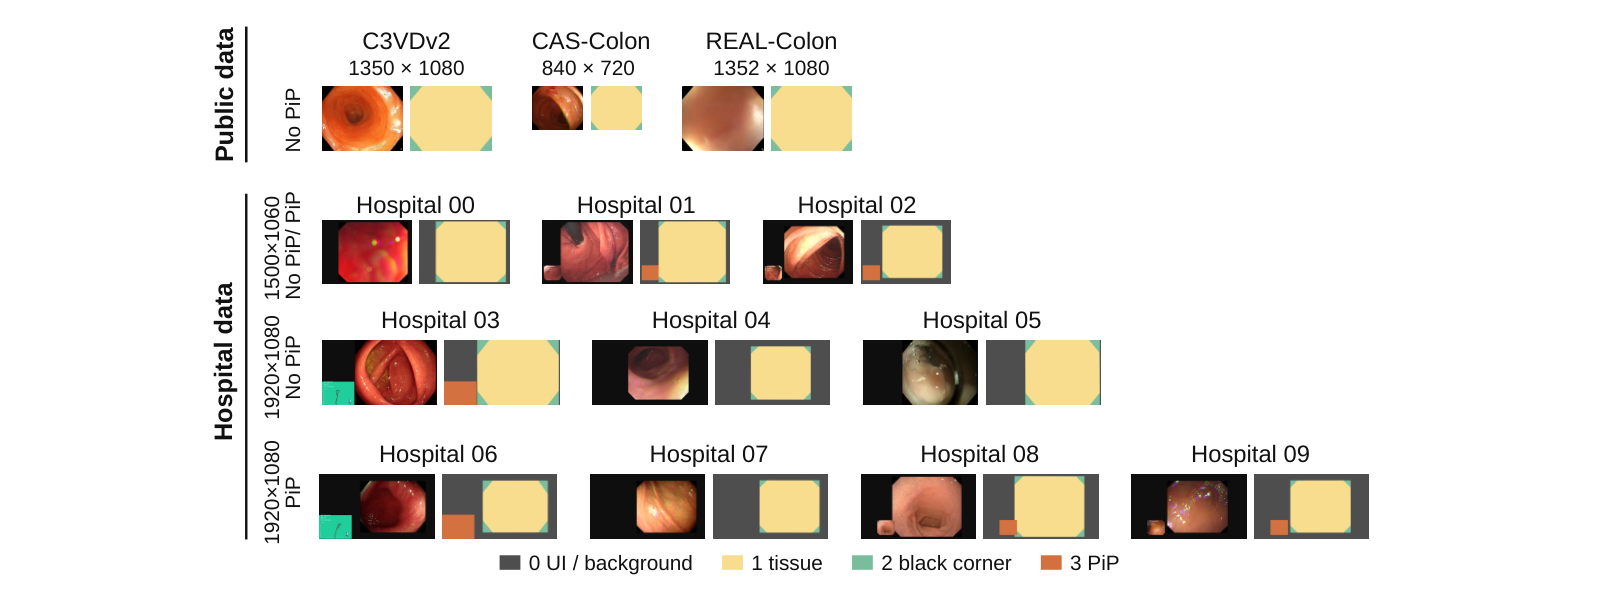
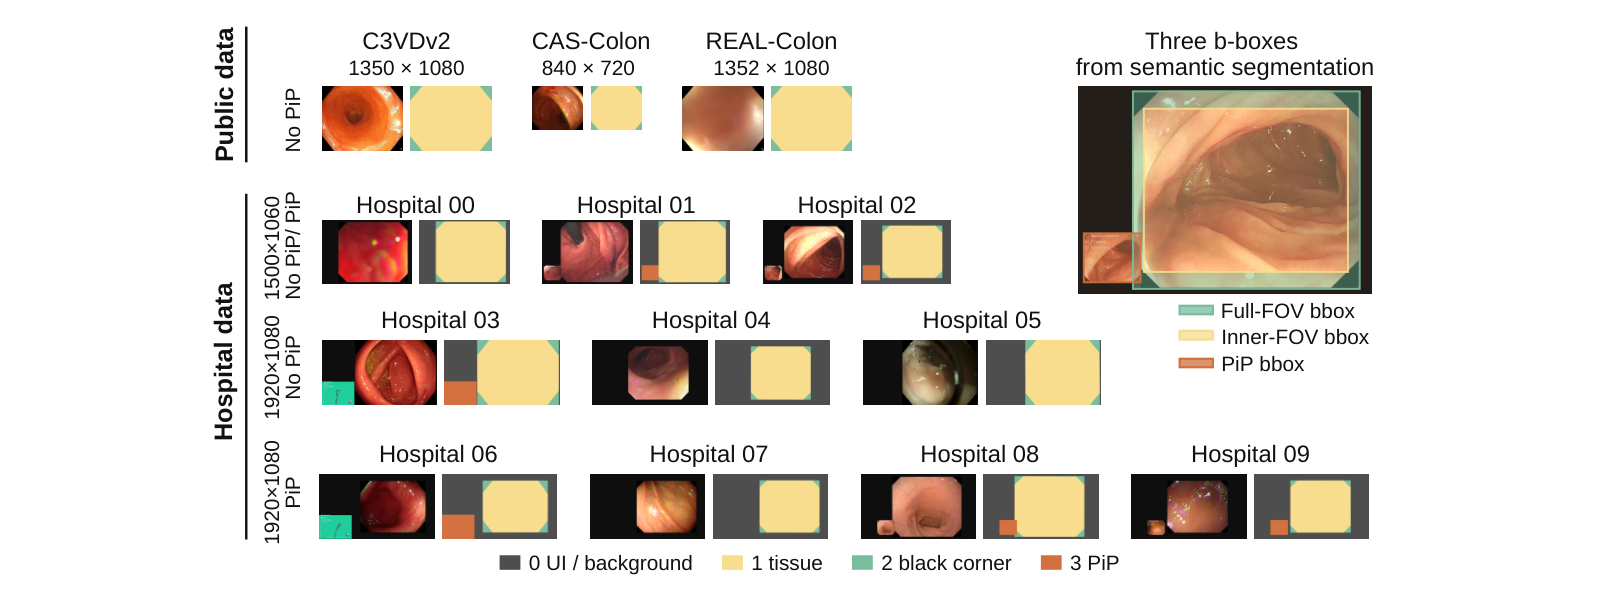
docs: use the repository's own label-pair figure and rewrite the Korean README
assets/sup_fig3_label_pairs.png was rendered from the manuscript's supplementary
figure. The repository should carry the git_ variant instead: it includes the
"Three b-boxes from semantic segmentation" panel and the Full-FOV / Inner-FOV /
PiP legend, which is the thing a reader of this repository needs to see. The
English class table and figure caption now match its wording.

The Korean README read as a translation of the English one rather than as Korean.
Rewritten so the sentences carry their own weight - shorter subject-to-verb
distance, fewer stacked modifiers, and the reasoning attached where it belongs
instead of trailing every paragraph.

Changed region(s): [[0.6562, 0.0602, 0.875, 0.6321]]

diff --git a/README.ko.md b/README.ko.md
@@ -2,20 +2,20 @@
 
 [English](README.md)
 
-대장내시경 프레임에서 실제 내시경 영상인 부분만 잘라내고, picture-in-picture 창이 떠
-있으면 그 위치를 찾아줍니다.
+대장내시경 프레임에서 실제 영상 영역만 잘라내고, picture-in-picture 창이 뜨면 그 위치를
+찾아냅니다.
 
 ![ColFOV workflow](assets/fig1_workflow.png)
 
-내시경 프레임에는 조직이 아닌 것들이 함께 담깁니다. 프로세서 UI 테두리, 광학계가 닿지
-않는 검은 모서리, letterbox 패딩, 그리고 두 번째 화면을 띄우는 picture-in-picture 창까지
-있습니다. ColFOV는 프레임을 이 네 클래스로 분할한 뒤, 잘라 쓸 수 있는 사각형 3개로
-바꿔줍니다. 사용 가능한 시야 전체를 감싸는 Full-FOV bbox, 안정적인 조직 안쪽에 1.25 비율로
-들어가는 Inner-FOV bbox, 그리고 하위 창을 위한 PiP bbox입니다. 앞의 둘은 영상마다 한 번
-계산해 그대로 재사용하고, PiP bbox는 창이 움직이기 때문에 시간에 따라 추적합니다.
+내시경 화면에는 조직 말고도 많은 게 담깁니다. 프로세서 UI 테두리가 감싸고 있고, 광학계가
+닿지 않는 모서리는 까맣고, letterbox 여백이 붙기도 하고, 두 번째 화면을 보여주는
+picture-in-picture 창이 뜨기도 합니다. ColFOV는 이걸 네 클래스로 나눈 다음 잘라 쓸 사각형
+셋을 뽑아냅니다. 쓸 수 있는 시야 전체를 감싸는 Full-FOV bbox, 그 안에서 조직만 골라 1.25
+비율로 채운 Inner-FOV bbox, 그리고 하위 창을 잡는 PiP bbox입니다. 앞의 둘은 영상당 한 번만
+구하면 끝이지만, PiP 창은 시술 도중에 옮겨 다니므로 계속 추적합니다.
 
-코드와 model weights는 과학적 투명성을 위해 공개합니다. 라이선스 조건은 아직 정하지
-않았으며 원고 투고 시점에 맞춰 추가할 예정입니다.
+코드와 model weights를 공개해 둔 건 연구 투명성 때문입니다. 라이선스는 아직 정하지 않았고,
+원고 투고할 때 함께 정리할 예정입니다.
 
 ## 설치
 
@@ -27,17 +27,17 @@ source .venv/bin/activate          # Windows: .venv\Scripts\Activate.ps1
 pip install -e ".[test]"
 ```
 
-## 사용
+## 써보기
 
-저장소에는 이미지·영상 데이터가 들어 있지 않으니 본인 파일 경로를 넘기면 됩니다.
+이미지나 영상은 저장소에 없습니다. 갖고 계신 파일 경로를 넘기세요.
 
 ```bash
 python examples/infer_session.py --video /path/to/video.mp4 --out outputs/session
 ```
 
-사각형 3개가 담긴 `session_result.json`, `calibration_summary.json`, 그리고 관측 시점마다
-한 행씩 쌓이는 `monitor_records.jsonl`이 나옵니다. 박스는 정수 `(x1, y1, x2, y2)`이고
-`x2`/`y2`는 exclusive, 원본 프레임 해상도 기준이라 그대로 슬라이싱됩니다.
+사각형 셋이 담긴 `session_result.json`, `calibration_summary.json`, 그리고 관측 시점마다 한
+줄씩 쌓이는 `monitor_records.jsonl`이 나옵니다. 좌표는 정수 `(x1, y1, x2, y2)`, `x2`와
+`y2`는 exclusive, 기준은 원본 해상도라서 바로 슬라이싱하면 됩니다.
 
 ```python
 import cv2, json
@@ -49,31 +49,33 @@ box = result["inner_fov_box"]
 crop = frame[box[1]:box[3], box[0]:box[2]] if box else frame
 ```
 
-프레임 1장으로도 돌아가지만 마스크와 프레임 단위 PiP 후보까지만 나옵니다. FOV 박스는
-calibration 표본이, PiP 박스는 타임라인이 있어야 하기 때문입니다.
+프레임 한 장만 넣어도 되는데, 그때는 마스크와 프레임 단위 PiP 후보까지만 나옵니다. FOV 박스는
+calibration 표본이 있어야 하고 PiP 박스는 타임라인이 있어야 하니까요.
 
 ```bash
 python examples/infer_image.py --image /path/to/frame.png --out outputs/image
 ```
 
-PyTorch가 CUDA 빌드라면 두 명령 모두에 `--device cuda`를 붙일 수 있습니다. 기본
-`pip install torch`는 CUDA 빌드가 아닌 경우가 많은데, 그럴 때 예제가 assertion으로 죽지
-않고 안내 메시지를 냅니다.
+PyTorch가 CUDA 빌드면 두 명령 다 `--device cuda`를 붙일 수 있습니다. 그냥
+`pip install torch`로 깔면 CPU 빌드인 경우가 많은데, 그때는 assertion으로 죽지 않고 왜 안
+되는지 알려줍니다.
 
-## 박스가 `null`로 나올 때
+## 박스가 `null`로 나오면
 
-셋 중 무엇이든 `null`이 될 수 있고, 이건 실패가 아니라 의도된 답입니다. 그 사각형을
-뒷받침할 근거가 없었다는 뜻이며 — 쓸 만한 calibration 프레임이 모자랐거나, PiP 창이 lock할
-만큼 안정적인 근거를 보여주지 못했거나 — 어떤 조건이 충족되지 않았는지는 함께 나오는 사유
-코드가 알려줍니다. 이때 임의의 fallback 사각형으로 대체하는 것만은 하지 마세요. 잘못된
-crop은 오류 하나 내지 않으면서 그 뒤의 모든 것을 망가뜨립니다.
+셋 다 `null`이 될 수 있습니다. 고장이 아니라 "근거가 없어서 답하지 않겠다"는 뜻입니다.
+쓸 만한 calibration 프레임이 모자랐거나, PiP 창이 lock할 만큼 안정적으로 잡히지 않은
+경우인데, 어느 조건이 걸렸는지는 옆에 붙는 사유 코드로 알 수 있습니다.
 
-## PiP 박스 읽는 법
+이때 적당한 사각형을 대신 넣는 것만은 피하세요. 잘못된 crop은 에러 한 번 안 내고 그 뒤
+단계를 전부 망칩니다.
 
-FOV 박스 두 개는 영상 전체에 그대로 유효하므로 `session_result.json`에서 한 번 읽고 잊어도
-됩니다. PiP 박스는 다릅니다. 시술 중간에 창이 옮겨지면 그 영상 전체에 맞는 사각형은 아예
-존재하지 않기 때문에, 요약의 `final_active_session_pip_box`는 마지막 상태일 뿐이고 이걸
-이전 시각에 적용하면 이동 전 구간이 전부 틀립니다. 시점별로 읽으세요.
+## PiP 박스는 시점별로 읽으세요
+
+FOV 박스 둘은 영상 내내 그대로라 `session_result.json`에서 한 번 읽으면 됩니다.
+
+PiP는 다릅니다. 창이 중간에 옮겨지면 영상 전체에 맞는 사각형이라는 게 없습니다. 요약에 있는
+`final_active_session_pip_box`는 말 그대로 마지막 상태라, 이걸 앞부분에 적용하면 이동 전
+구간이 통째로 틀립니다.
 
 ```python
 live = {}
@@ -82,14 +84,14 @@ for line in open("outputs/session/monitor_records.jsonl"):
     live[r["frame_index"]] = r["active_session_pip_box"]   # 박스 또는 None
 ```
 
-각 행에는 `timestamp_sec`, `pip_state`, `pip_epoch`, `pip_reason`과 함께 `lock` ·
-`unlock` · `relock` · `null` 중 하나인 `pip_event`가 들어 있어서, 창이 언제 나타나고
+각 줄에 `timestamp_sec`, `pip_state`, `pip_epoch`, `pip_reason`이 함께 들어 있고,
+`pip_event`가 `lock` · `unlock` · `relock` · `null` 중 하나로 찍힙니다. 창이 언제 나타나고
 움직이고 사라졌는지 그대로 따라갈 수 있습니다.
 
 <details>
 <summary><b>출력 스키마</b></summary>
 
-`session_result.json` — 값은 placeholder이고 키와 형태만 보여줍니다.
+`session_result.json`입니다. 값은 자리표시자고 키와 형태만 보시면 됩니다.
 
 ```json
 {
@@ -113,74 +115,77 @@ for line in open("outputs/session/monitor_records.jsonl"):
 }
 ```
 
-나올 수 있는 사유 코드:
+사유 코드는 이렇습니다.
 
 ```
 ok                             박스가 살아 있음
-pip_session_box_unavailable    lock된 적이 없거나, unlock 후 아직 재잠금 전
-pip_ttl_expired                이전에 lock했으나 이후 새 근거가 없음
-insufficient_temporal_evidence routed 프레임 또는 time bin 부족
-insufficient_split_evidence    stability 검사를 돌릴 bin이 부족
-session_box_failed_stability   split 양쪽이 불일치
-no_reliable_popup_footprint    popup은 보이나 쓸 만한 박스가 없음
-model_has_no_class3_channel    3-class 모델: popup이 없는 게 아니라 못 봄
+pip_session_box_unavailable    lock한 적 없거나, unlock 후 아직 재잠금 전
+pip_ttl_expired                전에 lock했지만 그 뒤로 새 근거가 없음
+insufficient_temporal_evidence routed 프레임이나 time bin이 모자람
+insufficient_split_evidence    stability 검사를 돌릴 bin이 모자람
+session_box_failed_stability   split 양쪽이 어긋남
+no_reliable_popup_footprint    popup은 보이는데 쓸 만한 박스가 안 나옴
+model_has_no_class3_channel    3-class 모델이라 popup을 못 봄 (없는 게 아님)
 ```
 
-`calibration_summary.json`은 24개 calibration 프레임 중 몇 개가 쓸 만했는지와 FOV geometry가
-abstain한 경우 그 사유를 담습니다. `monitor_records.jsonl`이 PiP 출력의 정본입니다.
+`calibration_summary.json`에는 24장 중 몇 장이 쓸 만했는지, abstain했다면 왜 그랬는지가
+들어갑니다. PiP 출력의 정본은 `monitor_records.jsonl`입니다.
 
 </details>
 
 <details>
-<summary><b>네 클래스, 그리고 신경망이 실제로 내놓는 것</b></summary>
+<summary><b>네 클래스와 세 박스</b></summary>
 
-신경망이 만드는 것은 픽셀별 클래스 맵 하나뿐이고, 이 저장소의 모든 bounding box는 그
-마스크에서 나중에 계산한 geometry입니다.
+신경망이 내놓는 건 픽셀별 클래스 맵 하나뿐입니다. 이 저장소의 bounding box는 전부 그
+마스크에서 나중에 계산한 값입니다.
 
 ```
 mask[y, x] ∈ {0, 1, 2, 3}
 ```
 
-| 값 | 클래스 | figure 표기 | 의미 |
+| 값 | 클래스 | figure 표기 | 무엇인가 |
 |---:|---|---|---|
-| 0 | `background_ui` | UI / background | 프로세서 UI, letterbox, 광학 시야 바깥 전부 |
-| 1 | `valid_fov_tissue` | Tissue | 사용 가능한 내시경 조직 |
-| 2 | `black_corner` | Corner | 프레임 안쪽의 어두운 주변부 |
+| 0 | `background_ui` | UI / background | 프로세서 UI, letterbox, 광학 시야 바깥 |
+| 1 | `valid_fov_tissue` | tissue | 쓸 수 있는 내시경 조직 |
+| 2 | `black_corner` | black corner | 프레임 안쪽의 검은 주변부 |
 | 3 | `popup_overlay` | PiP | 덧씌워진 하위 창 |
 
-![Label examples](assets/sup_fig3_label_pairs.png)
+![Three b-boxes from semantic segmentation](assets/sup_fig3_label_pairs.png)
+
+공개 데이터와 병원 데이터 모두 해상도와 화면 구성이 제각각이지만, 같은 네 클래스에서 같은
+세 박스가 나옵니다.
 
 </details>
 
 <details>
-<summary><b>자동으로 맞춰지는 것 / 사용자가 정하는 것 / 고정된 것</b></summary>
+<summary><b>알아서 맞춰지는 것 / 정할 수 있는 것 / 못 바꾸는 것</b></summary>
 
-세 가지는 따로 지시하지 않아도 입력을 따라갑니다. 박스 좌표는 원본 프레임 해상도 그대로
-나오므로 rescale이 필요 없고, 모니터링 주기는 `min(source_fps, --monitor-hz)`라서 소스보다
-빠르게 샘플링되지 않습니다. 3 fps 영상은 무엇을 넘기든 3 Hz로 봅니다. popup 검출은 이
-checkpoint에 class-3 채널이 있어서 켜지며, 3-class 모델이었다면 "popup이 없다"가 아니라
-"popup을 볼 수 없다"로 보고됩니다.
+세 가지는 따로 안 건드려도 입력에 맞춰집니다. 박스 좌표는 원본 해상도 그대로 나오니 다시
+스케일할 일이 없고, 모니터링 주기는 `min(source_fps, --monitor-hz)`라 3 fps 영상은 뭘 넣든
+3 Hz로 봅니다. 소스보다 빠르게 볼 수는 없으니까요. popup 검출은 이 checkpoint에 class-3
+채널이 있어서 켜집니다. 3-class 모델이면 "popup 없음"이 아니라 "popup을 못 봄"으로
+보고합니다.
 
-네 가지는 사용자가 정합니다.
+정할 수 있는 건 네 개입니다.
 
 | 옵션 | 기본값 | 효과 |
 |---|---|---|
-| `--device` | `cpu` | `cuda`가 대략 5–10배 빠름 |
-| `--monitor-hz` | `5.0` | PiP 모니터가 보는 빈도. 낮출수록 빠르고 거칠어짐 |
+| `--device` | `cpu` | `cuda`가 5–10배쯤 빠름 |
+| `--monitor-hz` | `5.0` | PiP를 얼마나 자주 볼지. 낮추면 빠르고 거칠어짐 |
 | `--weights` | `weights/colfov_b8s3.pt` | |
-| `--out` | `outputs/...` | 출력 디렉터리 |
+| `--out` | `outputs/...` | 출력 폴더 |
 
-나머지는 전부 동결이며 일부러 명령행에 노출하지 않았습니다. calibration 24 프레임, admissible
-비율 0.50, inner box 비율 1.25, agreement threshold 0.4, stability gate(IoU 0.95 / 면적비
-0.97), drift threshold 0.50, 최소 routed 프레임 수와 time bin 수가 그렇습니다. 모델이 평가된
-값들이라, 바꾸면 보고된 어떤 동작과도 대응하지 않는 박스가 나옵니다.
+나머지는 전부 고정이고 일부러 명령행에 안 내놨습니다. calibration 24장, admissible 비율
+0.50, inner box 비율 1.25, agreement threshold 0.4, stability gate(IoU 0.95 / 면적비 0.97),
+drift threshold 0.50, 최소 routed 프레임과 time bin 수가 그렇습니다. 모델을 평가할 때 쓴
+값들이라, 바꾸면 논문에 적힌 어떤 동작과도 대응하지 않는 박스가 나옵니다.
 
 </details>
 
 <details>
 <summary><b>속도</b></summary>
 
-단일 프레임, 배칭 없음. RTX 5060 Ti + Intel CPU 실측입니다.
+프레임 한 장, 배칭 없이, RTX 5060 Ti와 Intel CPU에서 잰 값입니다.
 
 | | 1920×1080 | 1350×1080 | 1280×720 |
 |---|---:|---:|---:|
@@ -189,53 +194,52 @@ checkpoint에 class-3 채널이 있어서 켜지며, 3-class 모델이었다면 
 | mask만, CPU | 220 ms | 165 ms | 109 ms |
 | mask + popup + routing, CPU | 267 ms | 199 ms | 131 ms |
 
-신경망은 487,316 파라미터로 작은 편이라, mask 이후 비용의 대부분은 OpenCV로 CPU에서 도는
-popup 후처리와 routing gate가 차지합니다.
+신경망은 487,316 파라미터로 작습니다. mask 이후가 오래 걸리는 이유는 popup 후처리와 routing
+gate가 OpenCV로 CPU에서 돌기 때문입니다.
 
-영상 전체로 보면 GPU·1280×720·5 Hz 모니터링에 디코딩까지 포함해 **영상 1분당 약 8.5초**,
-실시간의 약 7배 속도입니다. 모니터링된 프레임만 분할하므로 59 fps 영상을 5 Hz로 보면 전
-프레임이 아니라 대략 12장당 1장을 처리합니다.
+영상 한 편 기준으로는 GPU·1280×720·5 Hz에 디코딩까지 합쳐 **1분짜리 영상에 약 8.5초**,
+실시간의 7배쯤 됩니다. 모니터링한 프레임만 분할하니까 59 fps 영상을 5 Hz로 보면 12장에 한
+장꼴입니다.
 
 </details>
 
 <details>
-<summary><b>영상 한 편이 처리되는 과정</b></summary>
+<summary><b>영상 한 편이 처리되는 순서</b></summary>
 
-먼저 calibration입니다. 영상에서 균등 간격으로 24 프레임을 뽑고, 모델을 전혀 쓰지 않는
-guard가 동적 범위와 crushed/saturated 픽셀 비율, gradient energy만 보고 걸러냅니다. 절반이
-안 남으면 FOV 박스 둘 다 abstain합니다. 개수가 아니라 비율 규칙이고, 24개 기준에서 결과적으로
-12개가 됩니다.
+먼저 calibration입니다. 영상에서 균등 간격으로 24장을 뽑고, 모델을 안 쓰는 guard가 동적
+범위와 crushed/saturated 비율, gradient energy만 보고 걸러냅니다. 절반이 안 남으면 FOV 박스
+둘 다 abstain합니다. 개수가 아니라 비율 기준인데, 24장이면 결과적으로 12장입니다.
 
-그다음 영상을 시간 순서대로 고정 cadence로 재생합니다. 스케줄러가 정수 stride로 반올림하지
-않고 분수 phase를 이월하므로, 장기 평균 주기가 정확히 `min(source_fps, monitor_hz)`이고 한
-시간짜리 영상에서도 드리프트가 쌓이지 않습니다.
+그다음 영상을 시간 순서대로 일정 간격으로 훑습니다. 스케줄러가 정수 stride로 반올림하지 않고
+분수 phase를 이월해서, 평균 주기가 정확히 `min(source_fps, monitor_hz)`로 유지됩니다. 한
+시간짜리 영상에서도 어긋나지 않습니다.
 
-PiP 박스는 시간적으로 충분히 퍼진 근거가 stability 검사를 통과해야 lock되고, 위치 이동이
-확정되면 예전 위치를 정당화하던 근거로 즉시 재잠금하는 대신 unlock하고 epoch을 회전시킵니다.
-그 과정 내내 어떤 시각에 대해 보고되는 값은 그 시점까지 도착한 근거만 씁니다. causal 오프라인
-replay이며, capture-card 타이밍이나 비동기 디코딩, 라이브 스트림 데드라인은 검증 대상이
-아닙니다.
+PiP 박스는 시간적으로 충분히 퍼진 근거가 stability 검사를 통과해야 lock됩니다. 위치 이동이
+확정되면 unlock하고 epoch을 돌리는데, 이때 예전 위치를 뒷받침하던 근거로 곧바로 다시
+잠그지는 않습니다. 그리고 어떤 시점의 값이든 그 시점까지 들어온 근거만 씁니다. causal
+오프라인 replay라서, capture-card 타이밍이나 비동기 디코딩, 라이브 스트림 데드라인은 검증
+대상이 아닙니다.
 
 </details>
 
 <details>
 <summary><b>모델과 데이터</b></summary>
 
-TinyUNet, 4 classes, base channels 8, 487,316 파라미터. 입력은 512 × 384 letterbox이고
-정규화는 `/255`만 합니다. 로더는 checkpoint 자체의 config에서 구조를 읽어 4-class/base-8을
-강제하고, strict로 로드하며, `weights/SHA256SUMS`와 대조합니다. `TinyUNet`에 아키텍처
-기본값이 없어서 그럴듯해 보이는 잘못된 모델에 checkpoint가 조용히 로드될 수 없습니다.
+TinyUNet, 4 classes, base channels 8, 487,316 파라미터. 입력은 512 × 384 letterbox고
+정규화는 `/255`만 합니다. 로더가 checkpoint 안의 config에서 구조를 읽어 4-class/base-8을
+확인하고, strict로 올리고, `weights/SHA256SUMS`와 대조합니다. `TinyUNet`에 아키텍처 기본값을
+두지 않아서, 엉뚱한 모델에 checkpoint가 조용히 얹히는 일이 생기지 않습니다.
 
-데이터는 포함되어 있지 않습니다. 연구에 쓴 데이터셋은 각 관리 주체가 각자의 조건으로
-배포하므로 공식 출처에서 직접 받고 그 조건을 따르세요.
+데이터는 안 들어 있습니다. 연구에 쓴 데이터셋은 각 배포처의 조건이 따로 있으니 공식 출처에서
+직접 받으시고 그 조건을 따르세요.
 
-| 데이터셋 | 데이터셋 논문 — data-availability 항목을 따라 내려받으세요 |
+| 데이터셋 | 데이터셋 논문 — data-availability 항목 참고 |
 |---|---|
 | REAL-Colon | https://doi.org/10.1038/s41597-024-03359-0 |
 | C3VDv2 | https://doi.org/10.1038/s41597-026-07471-1 |
 | CAS-Colon | https://doi.org/10.1038/s41597-025-05588-3 |
 
-학습 자료의 일부는 공개 재배포가 불가능한 병원 데이터이며 여기에 링크하지 않습니다.
+학습에 쓴 자료 중 일부는 공개 재배포가 안 되는 병원 데이터라 여기 링크하지 않았습니다.
 
 </details>
 
@@ -246,21 +250,22 @@ TinyUNet, 4 classes, base channels 8, 487,316 파라미터. 입력은 512 × 384
 pytest -q
 ```
 
-checkpoint gate, 4-class 출력, 24-frame geometry 계약, cadence 계약, causal
-state-transition 계약, fail-closed 디코딩, 그리고 CLI 예제가 export된 dataclass와
-어긋나지 않는지를 검사합니다. 합성 fixture만 쓰므로 임상 미디어는 필요하지도 동봉되지도
-않습니다. 소프트웨어 정합성 검증이지 임상 성능의 근거가 아닙니다.
+checkpoint gate, 4-class 출력, 24장 geometry 계약, cadence 계약, causal state-transition
+계약, fail-closed 디코딩, 그리고 CLI 예제가 export된 dataclass와 어긋나지 않는지를 봅니다.
+전부 합성 fixture라 임상 자료는 필요 없고 동봉하지도 않았습니다. 소프트웨어가 맞게 도는지를
+보는 것이지 임상 성능의 근거는 아닙니다.
 
 </details>
 
 ## 한계
 
-연구용입니다. 의료기기가 아니고 진단이나 임상 의사결정에 쓸 수 없습니다. 이 작업의 근거가 된
-평가는 제한된 수의 영상에 대한 development evaluation이지 독립적인 확증 검증이 아니며, 보고된
-수치는 여기가 아니라 논문에 있습니다. 개발 자료 밖의 장비·해상도·오버레이 양식에서 어떻게
-동작할지는 알 수 없습니다. abstention은 설계된 동작이므로 `null` 박스는 의도된 fail-closed
-결과이며 우회할 대상이 아닙니다.
+연구용입니다. 의료기기가 아니고 진단이나 임상 판단에 쓸 수 없습니다.
+
+근거가 된 평가는 제한된 수의 영상을 대상으로 한 development evaluation이지 독립적인 확증
+검증이 아닙니다. 수치는 여기 말고 논문에 있습니다. 개발에 쓰지 않은 장비나 해상도, 오버레이
+양식에서 어떻게 동작할지는 알 수 없습니다. abstain은 설계대로 도는 것이므로 `null` 박스를
+우회하려 들지 마세요.
 
 ## 인용
 
-관련 원고는 아직 투고 전입니다. 게재 시 여기와 `CITATION.cff`에 인용 정보를 추가합니다.
+원고는 아직 투고 전입니다. 게재되면 여기와 `CITATION.cff`에 인용 정보를 넣겠습니다.

diff --git a/assets/PROVENANCE.md b/assets/PROVENANCE.md
@@ -10,19 +10,23 @@ Ancillary PNG metadata was removed; each file contains only `IHDR`, `IDAT` and `
 | asset | dimensions | sha256 |
 |---|---|---|
[3 lines of base64/hex data omitted]
 
 ## Sources
 
 | asset | source figure file | source sha256 (prefix) |
 |---|---|---|
 | `fig1_workflow.png` | `figures/fig1_workflow.pdf` | `af78a80f086dc3fd…` |
-| `sup_fig3_label_pairs.png` | `figures/sup_fig3_label_pairs.pdf` | `e26aca226bc04d05…` |
+| `sup_fig3_label_pairs.png` | `figures/candidates/git_sup_fig3_label_pairs.pdf` | `6840ea89bdb1d465…` |
 
 The manuscript masters were not modified. The vector sources, which contain the
 embedded clinical rasters, are **not** included in this repository.
 
-Re-rendered 2026-09-04 from the current manuscript masters. The previous assets came
+The label-pair asset is the repository-specific variant (`git_` prefix), which carries the
+"Three b-boxes from semantic segmentation" panel and the Full-FOV / Inner-FOV / PiP legend;
+the manuscript's own supplementary figure is a different layout and is not used here.
+
+Re-rendered 2026-09-04 from the current masters. The previous assets came
 from a superseded working export whose embedded rasters were placed off their native
 aspect ratio (25 of 25, worst 12.6 % too tall), which misstated the very geometry the
 figure exists to show. That was corrected in the Illustrator master on 2026-09-03.

diff --git a/README.md b/README.md
@@ -151,11 +151,14 @@ mask[y, x] ∈ {0, 1, 2, 3}
 | value | class | in the figure | what it is |
 |---:|---|---|---|
 | 0 | `background_ui` | UI / background | processor UI, letterbox, anything outside the optics |
-| 1 | `valid_fov_tissue` | Tissue | usable endoscopic tissue |
-| 2 | `black_corner` | Corner | dark peripheral region inside the frame |
+| 1 | `valid_fov_tissue` | tissue | usable endoscopic tissue |
+| 2 | `black_corner` | black corner | dark peripheral region inside the frame |
 | 3 | `popup_overlay` | PiP | an overlaid sub-window |
 
-![Label examples](assets/sup_fig3_label_pairs.png)
+![Three b-boxes from semantic segmentation](assets/sup_fig3_label_pairs.png)
+
+Public and hospital recordings differ in resolution and screen layout, but the same four
+classes yield the same three boxes.
 
 </details>
 
